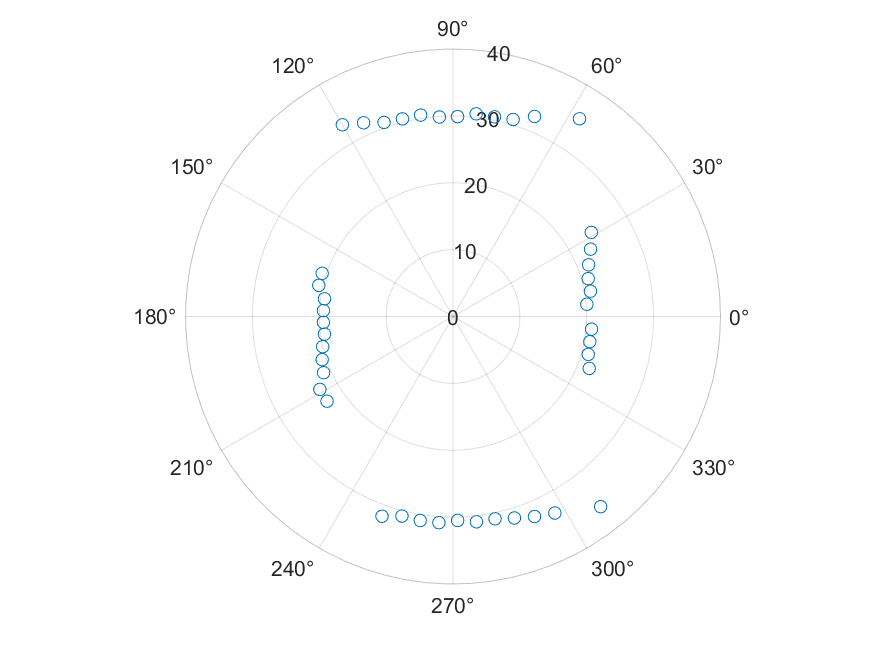
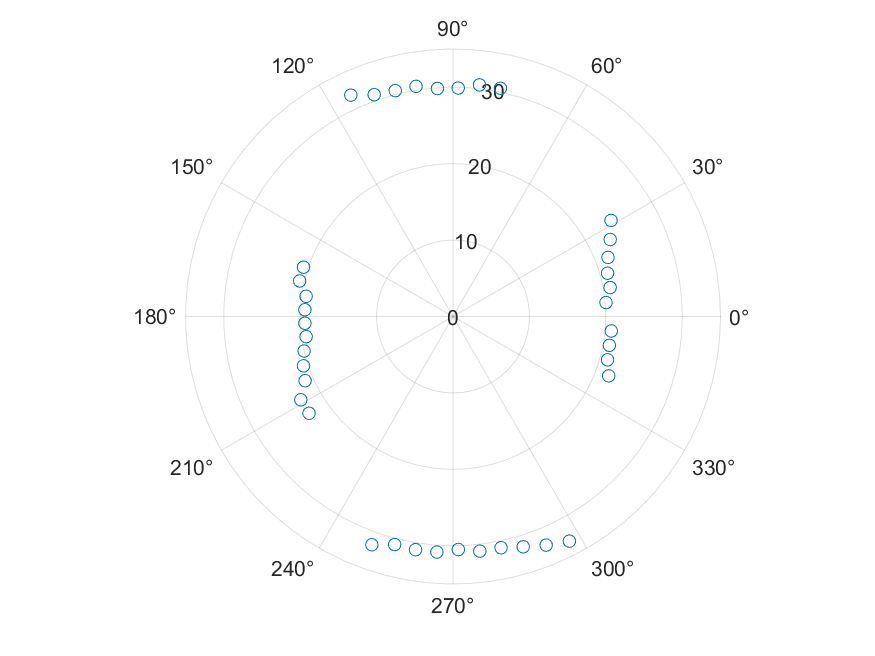
Changes in threshold

diff --git a/ReadLogs.m b/ReadLogs.m
@@ -18,9 +18,9 @@ for i = 1:length(rho)-1
     dists = [dists, dist];
 end
 
-med = median(dists);
 dists = sort(dists);
-umb = dists(44);
+dists = dists(1:64);
+umb = mean(dists);
 auxRho = [rho(x2)];
 auxTheta = [theta(x2)];
 
